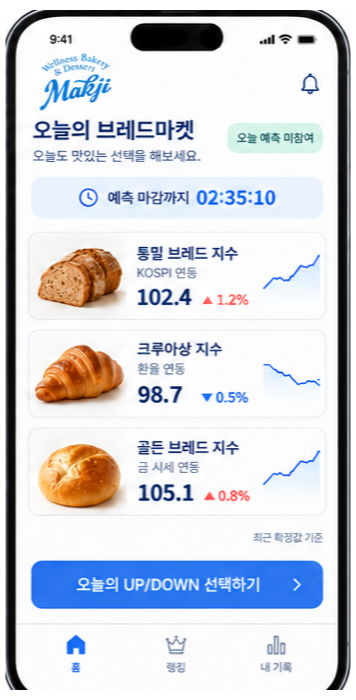
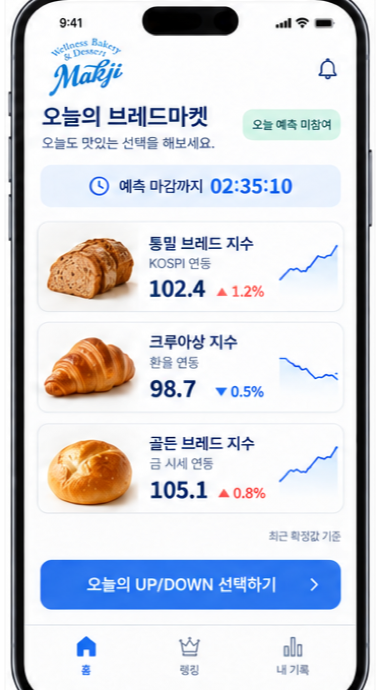
앱 화면 목업 잘림 수정 — 베젤 곡면 포함해 재크롭, 박스를 이미지 비율에 맞춤
4·5·6장의 폰 목업이 위아래로 조금씩 잘려 보이던 문제를 해결한다.

원인
- 크롭 경계를 눈대중으로 잡았고, "베젤이 최대 폭이 되는 행"만 폰으로 인식해
  위아래 둥근 모서리가 크롭 바깥으로 밀려나 있었다
- 공유하기 화면은 x 좌표가 69px 어긋나 좌측 베젤까지 잘려 있었다

측정
- PNG를 표준 라이브러리로 디코딩해 베젤(R+G+B<330) 픽셀의 진짜 경계를 산출
- 좌·우 베젤이 동시에 있는 행을 코어로 잡고, 가로 중앙 ±40px에 어두운 픽셀이
  남아 있는 동안 위아래로 확장해 곡면 끝을 찾음

수정
- 6개 화면 전부 진짜 경계 +6px 여백으로 재크롭, 380×690 공통 캔버스로 정규화
- 표시 박스에 aspect-ratio:380/690 적용 — 레터박스 0, 잘림 0
- 4·5·6장의 상하 패딩·간격을 줄여 확보한 공간을 화면 크기에 재배분
  (4장 186→205px, 5장 203→232px, 6장 160→182px)

DESIGN.md §5-1에 측정 방법과 재발 방지 규칙을 명문화했다.

Claude-Session: https://claude.ai/code/session_015MXijqVj1YgjecMcDGbxXb

diff --git a/makji-deck.html b/makji-deck.html
@@ -216,9 +216,9 @@ ul.list li b{color:var(--ink);font-weight:700}
 .pcol.c1 .ph{background:var(--forest)}
 .pcol.c2 .ph{background:var(--forest-2)}
 .pcol.c3 .ph{background:var(--gold)}
-.pcol .pbody{padding:14px 16px 16px;display:grid;grid-template-columns:186px 1fr;gap:14px;flex:1;min-height:0}
-.pcol .pshot{width:186px;height:370px;align-self:start;background-repeat:no-repeat;
-  background-size:contain;background-position:center center}
+.pcol .pbody{padding:10px 14px 12px;display:grid;grid-template-columns:205px 1fr;gap:12px;flex:1;min-height:0}
+.pcol .pshot{width:205px;aspect-ratio:380/690;align-self:start;background-repeat:no-repeat;
+  background-size:contain;background-position:center}
 .pmeta{display:flex;flex-direction:column;justify-content:space-between;min-height:0;gap:10px}
 .pblk .pl{font-size:9.6px;font-weight:800;letter-spacing:.11em;color:var(--forest-2);margin-bottom:4px}
 .pblk .pv{font-size:11.9px;line-height:1.5;color:var(--ink-2);letter-spacing:-.014em}
@@ -240,10 +240,10 @@ ul.list li b{color:var(--ink);font-weight:700}
 .loopmid img{width:82px;height:auto;display:block}
 
 /* ============================================================ S4 핵심 콘텐츠 */
-.s4{display:grid;grid-template-columns:290px 1fr;gap:20px;flex:1;min-height:0}
-.s4-left{display:flex;flex-direction:column;gap:12px;min-height:0}
-.phone{height:400px;flex:none;background-image:url("assets/ux-predict.png");background-repeat:no-repeat;
-  background-size:contain;background-position:center center}
+.s4{display:grid;grid-template-columns:232px 1fr;gap:20px;flex:1;min-height:0}
+.s4-left{display:flex;flex-direction:column;gap:10px;min-height:0}
+.phone{width:232px;height:421px;flex:none;background-image:url("assets/ux-predict.png");
+  background-repeat:no-repeat;background-size:contain;background-position:center}
 .shotnote{flex:1;display:flex;flex-direction:column;justify-content:center}
 .shotnote ul.list li{font-size:12.2px}
 .s4-right{display:flex;flex-direction:column;gap:12px;min-height:0}
@@ -286,9 +286,9 @@ ul.list li b{color:var(--ink);font-weight:700}
 .scene .sh .no{width:22px;height:22px;border-radius:7px;background:var(--forest);color:#fff;display:grid;place-items:center;
   font-size:11px;font-weight:800;flex:none}
 .scene .sh .st{font-size:14.5px;font-weight:800;letter-spacing:-.025em}
-.scene .sb{padding:12px 12px 12px;display:flex;flex-direction:column;align-items:center;gap:10px;flex:1;min-height:0}
-.wf{width:160px;height:320px;flex:none;background-repeat:no-repeat;
-  background-size:contain;background-position:center center}
+.scene .sb{padding:9px 12px 10px;display:flex;flex-direction:column;align-items:center;gap:9px;flex:1;min-height:0}
+.wf{height:330px;aspect-ratio:380/690;flex:none;background-repeat:no-repeat;
+  background-size:contain;background-position:center}
 .fb{display:flex;align-items:flex-start;gap:7px;background:var(--sage-2);border-radius:9px;padding:10px 11px;
   width:100%;margin-top:auto;font-size:11.4px;line-height:1.5;color:var(--forest);letter-spacing:-.01em;font-weight:600;flex:none}
 .fb svg{width:13px;height:13px;flex:none;margin-top:1px}
